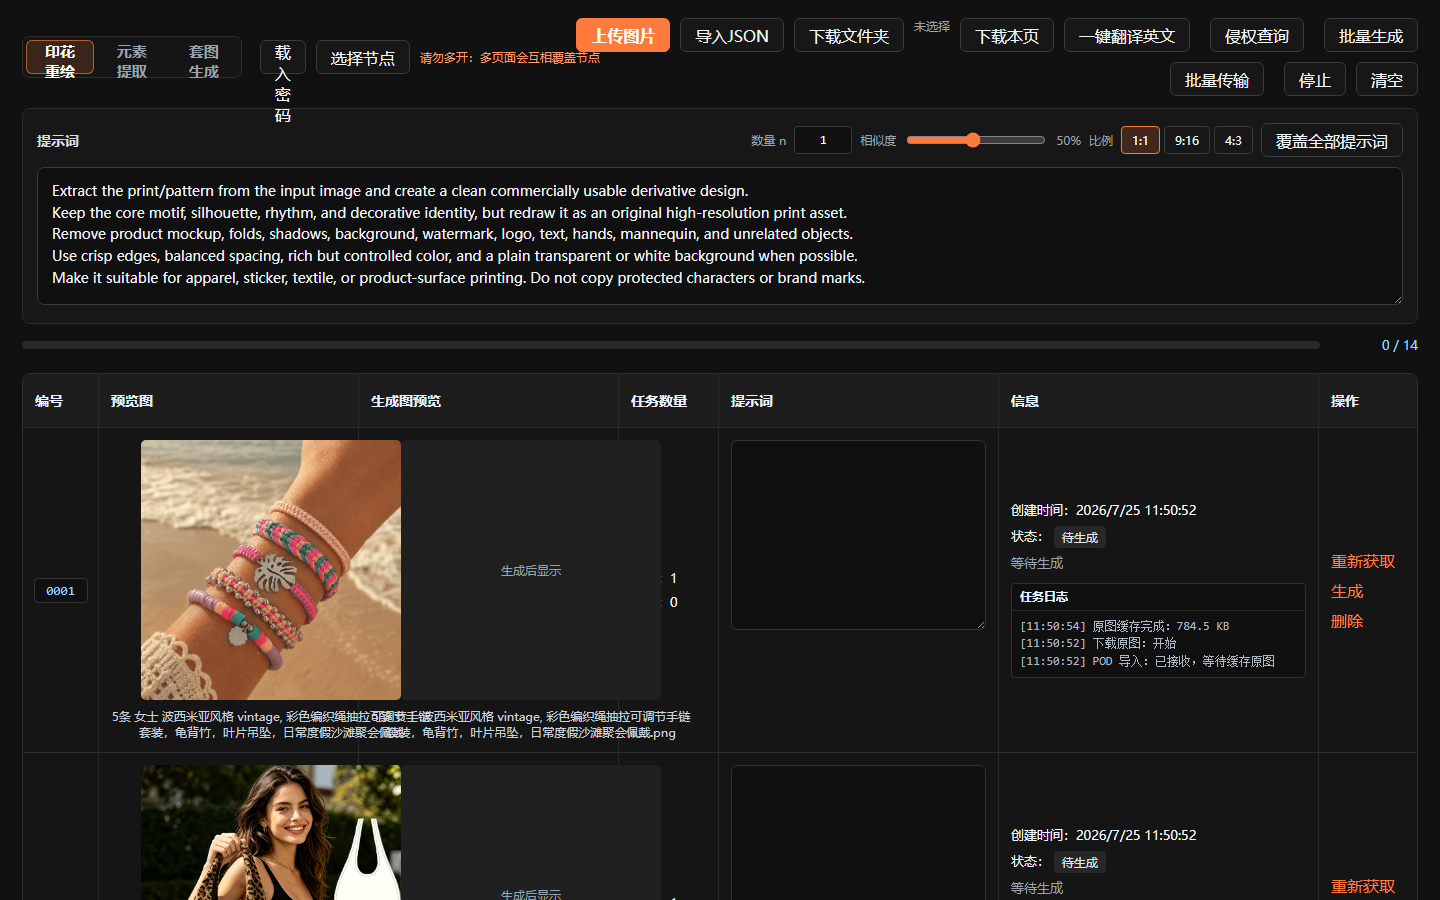
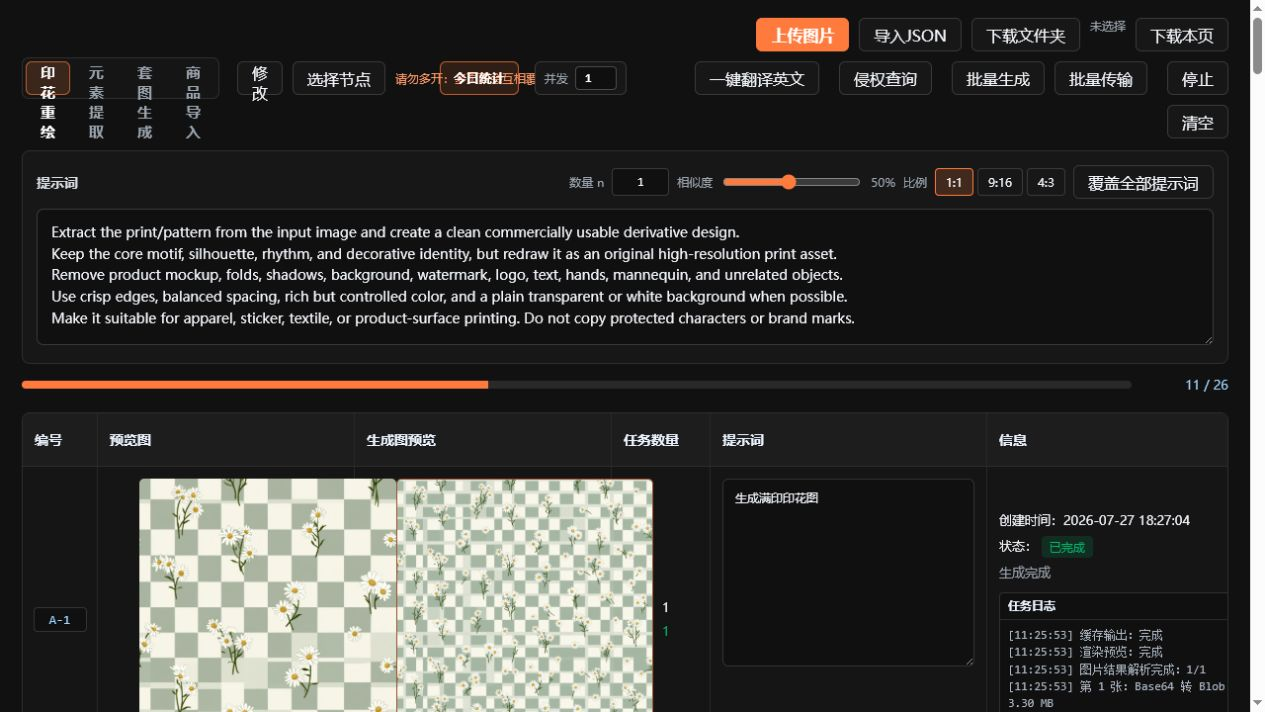
更新README截图并调整默认并发

diff --git a/README.md b/README.md
@@ -22,7 +22,7 @@ POD Image Workflow 把 **Temu 图片采集 Chrome 扩展**、**印花重绘**、
 > 自动导入的任务只会进入 **待生成** 状态。只有手动点击“生成”或“批量生成”才会调用 BeeCode，不会因为采集或刷新页面产生费用。
 
 <p align="center">
-  <img src="docs/images/00-architecture.png" alt="POD architecture: extension, local server, three modules, config vs key" width="920">
+  <img src="docs/images/00-architecture.svg" alt="POD architecture: extension, local server, four workflow modules, config vs key" width="920">
 </p>
 
 | 核心能力 | 行为 |
@@ -46,22 +46,36 @@ POD Image Workflow 把 **Temu 图片采集 Chrome 扩展**、**印花重绘**、
 
 <p align="center">
   <img src="docs/images/01-pattern-redraw.png" alt="Module 1 Pattern Redraw workbench" width="920"><br>
-  <sub>模块 1 · 印花重绘：任务列表、提示词、生成控制、节点选择</sub>
+  <sub>模块 1 · 印花重绘：原图与生成图对照、提示词、任务日志、缓存恢复和可调并发</sub>
 </p>
 
 <p align="center">
   <img src="docs/images/02-element-extraction.png" alt="Module 2 Element Extraction workbench" width="920"><br>
-  <sub>模块 2 · 元素提取：目录导入、前后缀 / Listing、结果表与导出</sub>
+  <sub>模块 2 · 元素提取：目录导入、前后缀 / Listing 模式、批量提取和结果导出</sub>
 </p>
 
 <p align="center">
   <img src="docs/images/03-mockup.png" alt="Module 3 Mockup canvas" width="920"><br>
-  <sub>模块 3 · 套图生成：印花组、产品底图 / Mask、画布预览与导出</sub>
+  <sub>模块 3 · 套图生成：产品图 / Mask 模板、印花组、平面与曲面网格、批量渲染导出</sub>
 </p>
 
 <p align="center">
-  <img src="docs/images/06-modules.png" alt="Workflow modules overview diagram" width="920"><br>
-  <sub>Workflow 模块职责一览（模块 4 详见下文）</sub>
+  <img src="docs/images/04-listing-import.png" alt="Module 4 Listing and SKU import workbench" width="920"><br>
+  <sub>模块 4 · 商品导入：Listing 目录识别、公共信息、SKU 组合与妙手上传包导出</sub>
+</p>
+
+### 四模块速览
+
+| 模块 | 输入 | 核心处理 | 输出 / 下一站 |
+|---|---|---|---|
+| 1 · 印花重绘 | 商品原图或导入 JSON | 批量生成、重试、缓存、侵权查询 | 成功图传入模块 2 |
+| 2 · 元素提取 | 模块 1 成功图或本机目录 | 3×3 分组识别、命名组合、人工校对 | 重命名图片传入模块 3 |
+| 3 · 套图生成 | 印花、产品图、蒙版与网格模板 | 平面 / 曲面贴图、Homography 高清渲染 | 按 Listing 批量导出并打开模块 4 |
+| 4 · 商品导入 | 模块 3 导出目录或手动目录 | Listing 预览、SKU 图片分配、商品信息补全 | 妙手可上传的 Excel 与素材 ZIP |
+
+<p align="center">
+  <img src="docs/images/06-workflow.svg" alt="Four-module POD workflow overview" width="920"><br>
+  <sub>从商品图采集到妙手上传包的完整本地 Workflow</sub>
 </p>
 
 ## 工作流程
